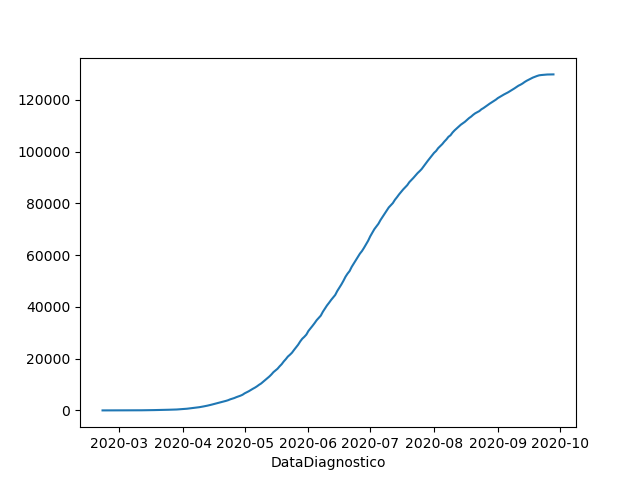
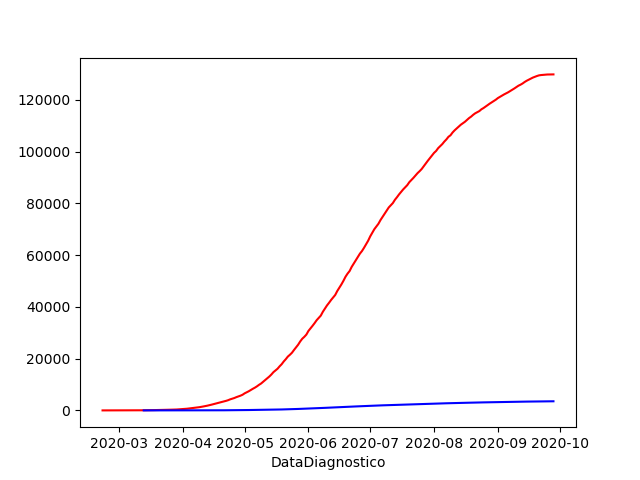
2 plot

diff --git a/matplotlib-seaborn/matplotlib-seaborn.py b/matplotlib-seaborn/matplotlib-seaborn.py
@@ -5,13 +5,18 @@ import seaborn as sns
 
 covid_panel = pd.read_csv("../data/microdados.csv", encoding="ISO-8859-1", on_bad_lines="skip", sep=";", parse_dates=["DataDiagnostico","DataObito"])
 
-
 # Evolution of cases
 confirmed = covid_panel[covid_panel['Classificacao'] == 'Confirmados']
 confirmed_by_day = confirmed.groupby(['DataDiagnostico']).size()
 confirmed_sum = confirmed_by_day.cumsum()
 
-plot = sns.lineplot(x=confirmed_sum.index, y=confirmed_sum)
+# Evolution of deaths
+dead = covid_panel[covid_panel['Evolucao'] == 'Óbito pelo COVID-19']
+dead_by_day = dead.groupby(['DataObito']).size()
+dead_sum = dead_by_day.cumsum()
+
+plot = sns.lineplot(x=confirmed_sum.index, y=confirmed_sum, color='red')
+plot = sns.lineplot(x=dead_sum.index, y=dead_sum, color='blue')
 fig = plot.get_figure()
 fig.savefig("../results/confirmed_sum.png")
 
